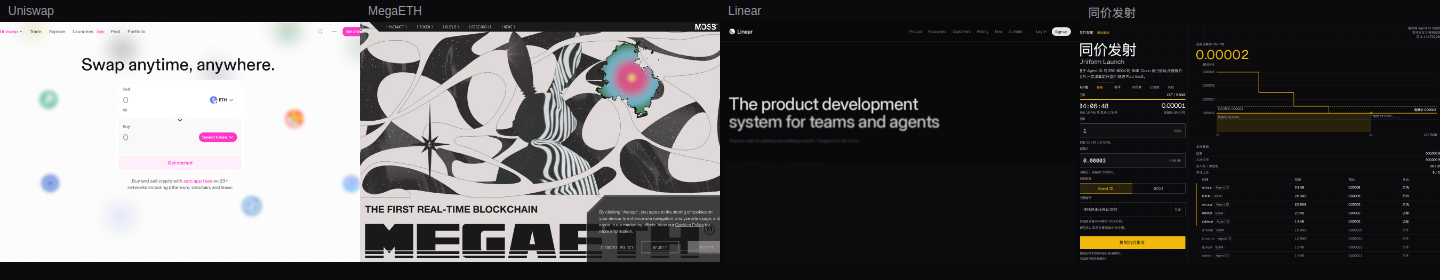
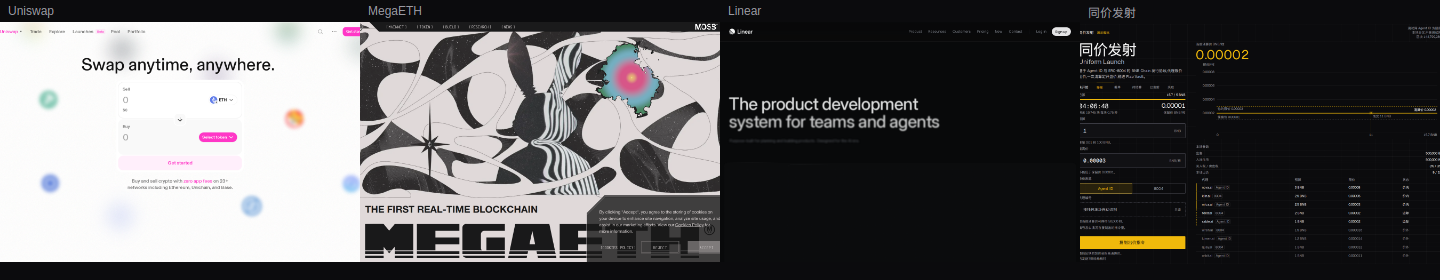
Refresh the reference strip and record the measured checks.
The comparison uses the current open page. The log notes the 44px phone targets, the single risk line, and the preview label.

Changed region(s): [[0.8438, 0.4, 0.9688, 0.4857], [0.8438, 0.2286, 0.875, 0.2857], [0.875, 0.3143, 0.9062, 0.3429]]

diff --git a/docs/design-log.md b/docs/design-log.md
@@ -39,3 +39,6 @@ Wed Nov 25 06:43:05 PM UTC 2026
 - 375×667 按钮 579–631，绘图区 260，没有横向溢出。
 - 出价少的时候曲线会把右栏撑到 500px 以上，台阶缩成一条。plot 最高 320px 之后，截单、待结算、已发射、失败的绘图区是 316，接单仍是 288。
 - forge test 48 通过。npm run build 通过。
+Wed Nov 25 06:47:35 PM UTC 2026
+阶段：命中区、预览标注、令牌核对。桌面按钮仍是 796/844，左栏哈希链接下沿 888。手机可见控件没有小于 44×44 的。风险句只出现一次，距按钮 8px。读数窗高 56，数值 20px，边框 rgb(99, 99, 112)。
+画面预览会在曲线标题右侧写「画面预览。链上这场不是这个阶段。」未开始仍然只能预览。
